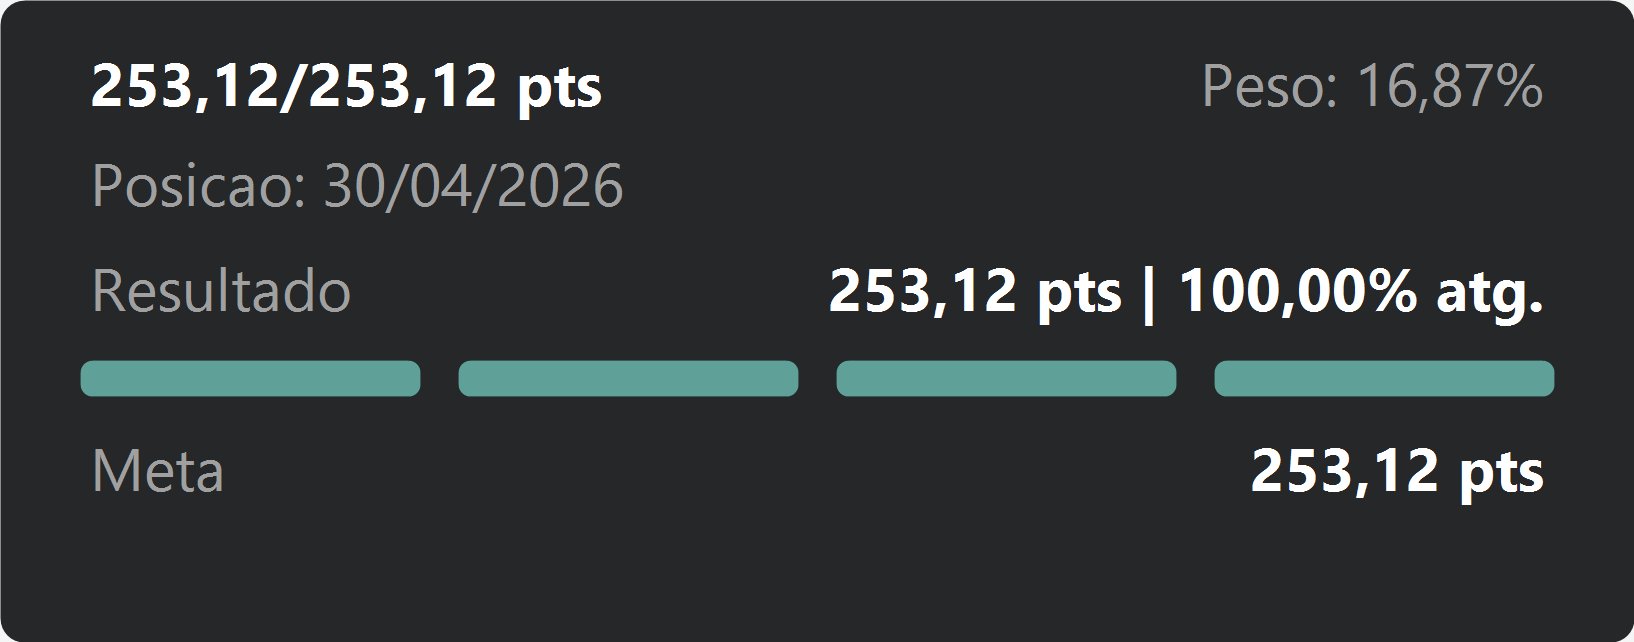
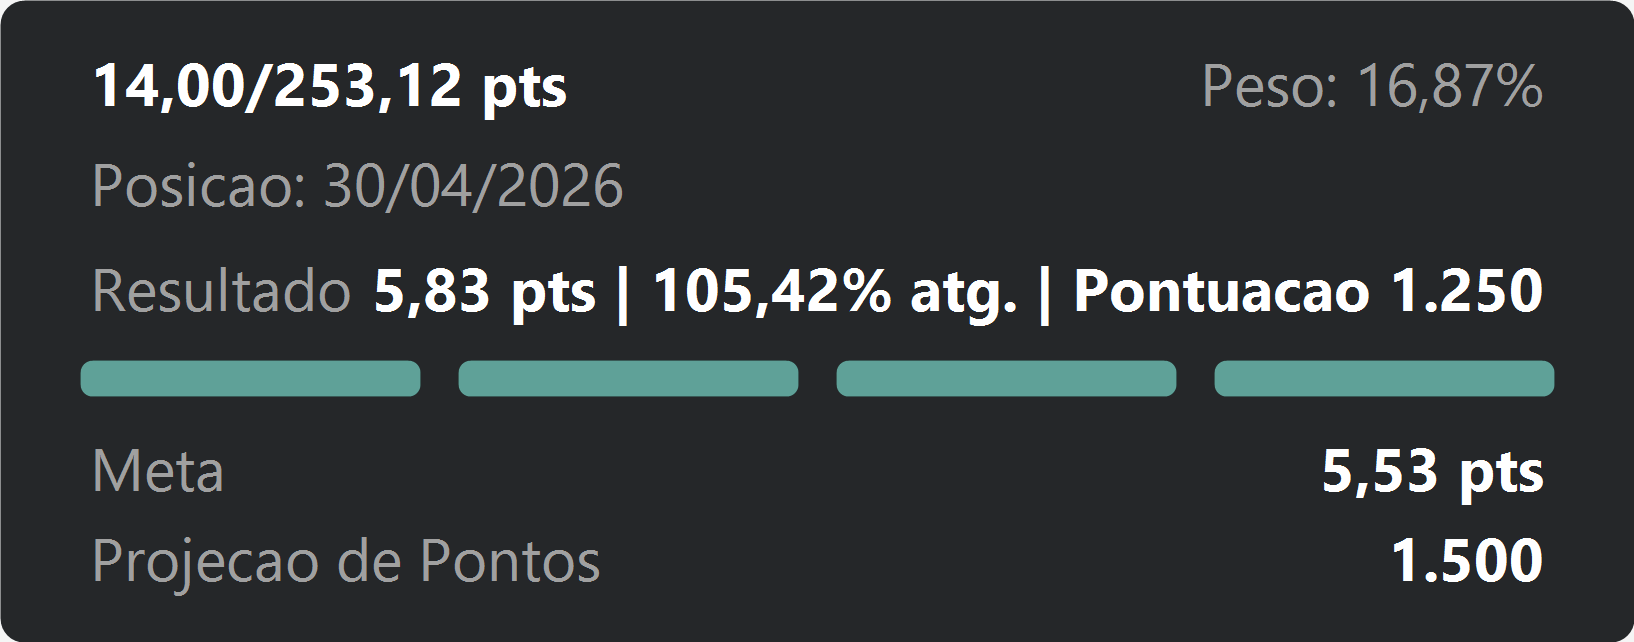
feat: campos 6 e 7 (Pontuacao Regua e Projecao) - v1.1.0
Adiciona dois novos campos ao visual personalizado:

- Campo 6 (Pontuacao Regua): aparece na linha Resultado como
  "| Pontuacao <valor>" ao lado do "atg.". Formato inteiro com
  separador de milhar (ex.: 1250 -> 1.250).
- Campo 7 (Pontuacao Regua Projecao): nova linha abaixo da Meta
  com rotulo "Projecao de Pontos" e o valor a direita.

A linha Projecao foi encaixada no respiro abaixo da Meta dentro
da mesma viewBox original (817x321), preservando a proporcao do
cartao e o tamanho de fontes/barra da v1.0.0 (evita encolhimento
por mudanca de aspect ratio do preserveAspectRatio).

Novas opcoes no painel de formatacao:
- Campo 3: "Separador antes da Pontuacao" e "Rotulo da Pontuacao"
- Campo 7: card novo (rotulo, fonte, cor do rotulo, cor do valor, sufixo)
- Numeros: casas decimais e separador de milhar da Pontuacao

Compatibilidade: visuais existentes na v1.0.0 sem os Campos 6 e 7
ficam visualmente identicos. As novas linhas so renderizam quando os
campos correspondentes estao bind.

diff --git a/src/visual.ts b/src/visual.ts
@@ -13,7 +13,7 @@ import VisualTooltipDataItem = powerbi.extensibility.VisualTooltipDataItem;
 
 const SVGNS = "http://www.w3.org/2000/svg";
 const VIEW_W = 817;
-const VIEW_H = 321;
+const VIEW_H = 321; // altura unica - a linha Projecao (Campo 7) cabe no respiro original abaixo da Meta
 const BAR_TOTAL_W = 737;
 const BAR_GAP = 19;
 
@@ -55,6 +55,17 @@ function fmtPct(v: any, dec: number, virgula: boolean, fracao: boolean): string 
         s = s.replace(".", ",");
     }
     return s + "%";
+}
+
+function fmtPontuacao(v: any, dec: number, milhar: boolean): string {
+    if (v === null || v === undefined || v === "" || isNaN(Number(v))) {
+        return "";
+    }
+    return Number(v).toLocaleString("pt-BR", {
+        minimumFractionDigits: dec,
+        maximumFractionDigits: dec,
+        useGrouping: milhar
+    });
 }
 
 function fontAttrs(font: any, forcarPeso?: string): { [k: string]: string | number } {
@@ -157,6 +168,13 @@ export class Visual implements IVisual {
         const virgula = s.numero.virgulaDecimal.value;
         const fracao = s.numero.fracaoPercentual.value;
 
+        // viewBox permanece 817x321 sempre - a Projecao (Campo 7) encaixa no espaco
+        // sob a Meta sem mudar a proporcao do cartao (evita encolhimento por aspect-ratio)
+        const table = dataView && dataView.table;
+        const columnsAll = table && table.columns ? table.columns : [];
+        const temProjecao = columnsAll.findIndex(c => c.roles && (c.roles as any).pontuacaoReguaProjecao) >= 0;
+        const temPontuacaoRegua = columnsAll.findIndex(c => c.roles && (c.roles as any).pontuacaoRegua) >= 0;
+
         // Fundo do cartao
         this.svg.appendChild(el("rect", {
             x: 0, y: 0, width: VIEW_W, height: VIEW_H,
@@ -164,7 +182,6 @@ export class Visual implements IVisual {
             fill: s.cartao.corFundo.value.value
         }));
 
-        const table = dataView && dataView.table;
         if (!table || !table.columns || !table.columns.length) {
             this.tooltipItems = [];
             this.svg.appendChild(txt({
@@ -186,6 +203,11 @@ export class Visual implements IVisual {
         const atingimento = this.getVal(columns, row, "atingimento");
         const progresso = this.getVal(columns, row, "progresso");
         const metaBarra = this.getVal(columns, row, "metaBarra");
+        const pontuacaoRegua = this.getVal(columns, row, "pontuacaoRegua");
+        const pontuacaoReguaProjecao = this.getVal(columns, row, "pontuacaoReguaProjecao");
+
+        const decPont = s.numero.casasDecimaisPontuacao.value;
+        const milharPont = s.numero.separadorMilharPontuacao.value;
 
         // Tooltips
         this.tooltipItems = columns
@@ -227,11 +249,16 @@ export class Visual implements IVisual {
             fill: s.resultadoBarra.corRotulo.value.value
         }, s.resultadoBarra.rotulo.value));
 
-        // Campo 3 - valor "X pts | Y% atg." (direita)
-        const valBarra = fmtNum(resultadoBarra, dec, virgula)
+        // Campo 3 - valor "X pts | Y% atg."  (+ Campo 6 "| Pontuacao 1.250" quando presente)
+        let valBarra = fmtNum(resultadoBarra, dec, virgula)
             + s.resultadoBarra.textoMeio.value
             + fmtPct(atingimento, dec, virgula, fracao)
             + s.resultadoBarra.textoFim.value;
+        if (temPontuacaoRegua) {
+            valBarra += s.resultadoBarra.separadorPontuacao.value
+                + s.resultadoBarra.rotuloPontuacao.value
+                + fmtPontuacao(pontuacaoRegua, decPont, milharPont);
+        }
         g.appendChild(txt({
             x: 737, y: -35, ...fontAttrs(s.resultadoBarra.font),
             fill: s.resultadoBarra.corValor.value.value, "text-anchor": "end"
@@ -281,6 +308,22 @@ export class Visual implements IVisual {
             x: 737, y: 55, ...fontAttrs(s.metaBarra.font),
             fill: s.metaBarra.corValor.value.value, "text-anchor": "end"
         }, metaTexto));
+
+        // Campo 7 - Projecao de Pontos (nova linha abaixo da Meta) - so renderiza se o campo estiver bind
+        // y=100 no grupo (= 280 absoluto): cabe na viewBox original aproveitando o respiro sob a Meta
+        if (temProjecao) {
+            // rotulo "Projecao de Pontos" (esquerda)
+            g.appendChild(txt({
+                x: 0, y: 100, ...fontAttrs(s.projecao.font, "400"),
+                fill: s.projecao.corRotulo.value.value
+            }, s.projecao.rotulo.value));
+            // valor (direita)
+            const projecaoTexto = fmtPontuacao(pontuacaoReguaProjecao, decPont, milharPont) + s.projecao.sufixo.value;
+            g.appendChild(txt({
+                x: 737, y: 100, ...fontAttrs(s.projecao.font),
+                fill: s.projecao.corValor.value.value, "text-anchor": "end"
+            }, projecaoTexto));
+        }
 
         this.svg.appendChild(g);
     }

diff --git a/src/settings.ts b/src/settings.ts
@@ -154,9 +154,21 @@ class ResultadoBarraCard extends Card {
         value: " atg.",
         placeholder: " atg."
     });
+    separadorPontuacao = new formattingSettings.TextInput({
+        name: "separadorPontuacao",
+        displayName: "Separador antes da Pontuacao (Campo 6)",
+        value: " | ",
+        placeholder: " | "
+    });
+    rotuloPontuacao = new formattingSettings.TextInput({
+        name: "rotuloPontuacao",
+        displayName: "Rotulo da Pontuacao (Campo 6)",
+        value: "Pontuacao ",
+        placeholder: "Pontuacao "
+    });
     name = "resultadoBarra";
     displayName = "Campo 3 - Resultado/Atingimento (barra)";
-    slices = [this.rotulo, this.corRotulo, this.font, this.corValor, this.textoMeio, this.textoFim];
+    slices = [this.rotulo, this.corRotulo, this.font, this.corValor, this.textoMeio, this.textoFim, this.separadorPontuacao, this.rotuloPontuacao];
 }
 
 /* ------------------ Campo 4 - Barra de progresso ------------------ */
@@ -238,6 +250,36 @@ class MetaBarraCard extends Card {
     slices = [this.rotulo, this.corRotulo, this.font, this.corValor, this.sufixo];
 }
 
+/* ------------------ Campo 7 - Projecao de Pontos (abaixo da Meta) ------------------ */
+class ProjecaoCard extends Card {
+    rotulo = new formattingSettings.TextInput({
+        name: "rotulo",
+        displayName: "Rotulo (esquerda)",
+        value: "Projecao de Pontos",
+        placeholder: "Projecao de Pontos"
+    });
+    corRotulo = new formattingSettings.ColorPicker({
+        name: "corRotulo",
+        displayName: "Cor do rotulo",
+        value: { value: "#A0A0A0" }
+    });
+    font = controleFonte(true, 32);
+    corValor = new formattingSettings.ColorPicker({
+        name: "corValor",
+        displayName: "Cor do valor",
+        value: { value: "#FFFFFF" }
+    });
+    sufixo = new formattingSettings.TextInput({
+        name: "sufixo",
+        displayName: "Sufixo",
+        value: "",
+        placeholder: ""
+    });
+    name = "projecao";
+    displayName = "Campo 7 - Projecao de Pontos (barra)";
+    slices = [this.rotulo, this.corRotulo, this.font, this.corValor, this.sufixo];
+}
+
 /* ------------------ Numeros (global) ------------------ */
 class NumeroCard extends Card {
     casasDecimais = new formattingSettings.NumUpDown({
@@ -259,9 +301,23 @@ class NumeroCard extends Card {
         displayName: "Usar virgula como separador decimal",
         value: true
     });
+    casasDecimaisPontuacao = new formattingSettings.NumUpDown({
+        name: "casasDecimaisPontuacao",
+        displayName: "Casas decimais (Pontuacao - Campos 6 e 7)",
+        value: 0,
+        options: {
+            minValue: { type: ValidatorType.Min, value: 0 },
+            maxValue: { type: ValidatorType.Max, value: 6 }
+        }
+    });
+    separadorMilharPontuacao = new formattingSettings.ToggleSwitch({
+        name: "separadorMilharPontuacao",
+        displayName: "Separador de milhar na Pontuacao (ex.: 1.250)",
+        value: true
+    });
     name = "numero";
     displayName = "Numeros (formatacao)";
-    slices = [this.casasDecimais, this.fracaoPercentual, this.virgulaDecimal];
+    slices = [this.casasDecimais, this.fracaoPercentual, this.virgulaDecimal, this.casasDecimaisPontuacao, this.separadorMilharPontuacao];
 }
 
 export class VisualFormattingSettingsModel extends Model {
@@ -272,6 +328,7 @@ export class VisualFormattingSettingsModel extends Model {
     resultadoBarra = new ResultadoBarraCard();
     barra = new BarraCard();
     metaBarra = new MetaBarraCard();
+    projecao = new ProjecaoCard();
     numero = new NumeroCard();
 
     cards = [
@@ -282,6 +339,7 @@ export class VisualFormattingSettingsModel extends Model {
         this.resultadoBarra,
         this.barra,
         this.metaBarra,
+        this.projecao,
         this.numero
     ];
 }

diff --git a/README.md b/README.md
@@ -4,7 +4,7 @@
 ![API](https://img.shields.io/badge/Visuals%20API-5.9.0-blue)
 ![TypeScript](https://img.shields.io/badge/TypeScript-5.6-3178C6?logo=typescript&logoColor=white)
 ![License](https://img.shields.io/badge/license-MIT-green)
-![Version](https://img.shields.io/badge/version-1.0.0-informational)
+![Version](https://img.shields.io/badge/version-1.1.0-informational)
 
 Cartão de **progresso por barras** para Power BI, distribuído como **visual personalizado importável** (`.pbiviz`). É a reconstrução nativa de um cartão que originalmente era gerado por **DAX + SVG** dentro de um componente *HTML Content*.
 
@@ -50,17 +50,18 @@ O objetivo deste visual é **manter 100% de fidelidade ao layout original**, mas
 ## Anatomia do visual
 
 ```
-┌─────────────────────────────────────────────────────────────┐
-│  253,12/253,12 pts                            Peso: 16,87%    │  ← Campo 1 (esq.) / Campo 2 (dir.)
-│  Posição: 30/04/2026                                          │  ← Posição
-│                                                               │
-│  Resultado                       253,12 pts | 100,00% atg.    │  ← rótulo / Campo 3
-│  ▰▰▰▰▰▰   ▰▰▰▰▰▰   ▰▰▰▰▰▰   ▰▰▰▰▰▰                            │  ← Campo 4 (barra)
-│  Meta                                          253,12 pts     │  ← rótulo / Campo 5
-└─────────────────────────────────────────────────────────────┘
+┌─────────────────────────────────────────────────────────────────────────┐
+│  14,00/253,12 pts                                       Peso: 16,87%    │  ← Campo 1 (esq.) / Campo 2 (dir.)
+│  Posição: 30/04/2026                                                    │  ← Posição
+│                                                                         │
+│  Resultado            5,83 pts | 105,42% atg. | Pontuação 1.250         │  ← Campo 3 + Campo 6
+│  ▰▰▰▰▰▰   ▰▰▰▰▰▰   ▰▰▰▰▰▰   ▰▰▰▰▰▰                                      │  ← Campo 4 (barra)
+│  Meta                                                       5,53 pts    │  ← rótulo / Campo 5
+│  Projeção de Pontos                                            1.500    │  ← Campo 7 (novo na v1.1.0)
+└─────────────────────────────────────────────────────────────────────────┘
 ```
 
-O visual é desenhado em um `viewBox` fixo de `817 × 321`, com `preserveAspectRatio`, então escala proporcionalmente ao tamanho do contêiner mantendo o layout.
+O visual é desenhado em um `viewBox` fixo de `817 × 321`, com `preserveAspectRatio`, então escala proporcionalmente ao tamanho do contêiner mantendo o layout — inclusive com os campos da v1.1.0.
 
 ---
 
@@ -78,9 +79,13 @@ Cada valor distinto do cartão é um campo independente, aceitando uma medida (o
 | Campo 3 — Atingimento % | `atingimento` | Acima da barra (`... Y% atg.`) |
 | Campo 4 — Progresso da barra % | `progresso` | Preenchimento dos segmentos |
 | Campo 5 — Meta (barra) | `metaBarra` | Abaixo da barra, à direita |
+| **Campo 6 — Pontuação Régua** *(v1.1.0)* | `pontuacaoRegua` | Linha Resultado, ao final (`... \| Pontuação 1.250`) |
+| **Campo 7 — Pontuação Régua Projeção** *(v1.1.0)* | `pontuacaoReguaProjecao` | Linha sob a Meta (`Projeção de Pontos    1.500`) |
 | Dicas de ferramenta | `tooltips` | Tooltip ao passar o mouse |
 
 > **Percentuais**: por padrão o visual interpreta `peso`, `atingimento` e `progresso` como **fração** (ex.: `0,1687` → `16,87%`), igual ao DAX original. Caso suas medidas já venham multiplicadas por 100, desligue *"Percentuais como fração (0 a 1)"* no cartão **Números**.
+>
+> **Pontuação**: os Campos 6 e 7 são formatados como inteiro com **separador de milhar** (`.`) por padrão — ex.: `1250` → `1.250`. Casas decimais e o separador de milhar são configuráveis no cartão **Números**.
 
 ---
 
@@ -94,10 +99,11 @@ Todas no painel nativo de Formatação:
 | **Campo 1 — Resultado/Meta** | Fonte, tamanho, negrito, cor, prefixo (rótulo), separador, sufixo |
 | **Campo 2 — Peso** | Rótulo, fonte, tamanho, negrito, cor |
 | **Posição (data)** | Rótulo, fonte, tamanho, negrito, cor |
-| **Campo 3 — Resultado/Atingimento** | Rótulo + cor do rótulo, fonte/tamanho/negrito, cor do valor, textos intermediário e final |
+| **Campo 3 — Resultado/Atingimento** | Rótulo + cor do rótulo, fonte/tamanho/negrito, cor do valor, textos intermediário e final, **separador e rótulo da Pontuação** *(v1.1.0)* |
 | **Campo 4 — Barra de progresso** | Cor (atingido), cor (abaixo da meta), cor de fundo da barra, limite (%), nº de segmentos, altura |
 | **Campo 5 — Meta** | Rótulo + cor do rótulo, fonte/tamanho/negrito, cor do valor, sufixo |
-| **Números (formatação)** | Casas decimais, vírgula como separador decimal, percentuais como fração |
+| **Campo 7 — Projeção de Pontos** *(v1.1.0)* | Rótulo + cor do rótulo, fonte/tamanho/negrito, cor do valor, sufixo |
+| **Números (formatação)** | Casas decimais, vírgula como separador decimal, percentuais como fração, **casas decimais da Pontuação, separador de milhar da Pontuação** *(v1.1.0)* |
 
 ---
 
@@ -127,9 +133,11 @@ A **cor** é dinâmica: se `p >= limite/100`, usa a *cor de atingido* (verde `#5
 | `_Pontos` (`Realizado`) | Resultado da barra | Campo 3 — Resultado (barra) |
 | `_Percentual` (`_Pontos / _MetaTexto`) | Atingimento | Campo 3 — Atingimento % **e** Campo 4 — Progresso |
 | `_MetaTexto` (`Meta_Projecao`) | Meta projetada | Campo 5 — Meta (barra) |
+| Medida nova (Pontuação Régua) *(v1.1.0)* | Pontuação acumulada | Campo 6 — Pontuação Régua |
+| Medida nova (Pontuação Régua Projeção) *(v1.1.0)* | Projeção de pontos | Campo 7 — Pontuação Régua Projeção |
 | `_CorBarra` (verde/vermelho) | Cor condicional | Cartão **Barra** (cores + limite) |
 
-> Agora cada uma dessas variáveis vira uma **medida simples** arrastada para o campo correspondente — sem precisar montar a string SVG no DAX.
+> Cada uma dessas variáveis vira uma **medida simples** arrastada para o campo correspondente — sem precisar montar a string SVG no DAX.
 
 ---
 
@@ -196,7 +204,7 @@ npm start   # npx pbiviz start
 ## Instalação no Power BI Desktop
 
 1. Painel **Visualizações → ⋯ (Obter mais visuais) → Importar um visual de um arquivo**.
-2. Selecione o arquivo `.pbiviz` gerado em `dist/`.
+2. Selecione o arquivo `.pbiviz` (baixe a versão mais recente na [aba Releases](../../releases) deste repositório).
 3. Adicione o visual ao relatório e arraste suas medidas para os campos correspondentes.
 4. Ajuste a aparência no painel de **Formatação**.
 

diff --git a/CHANGELOG.md b/CHANGELOG.md
@@ -5,6 +5,31 @@ Todas as mudanças relevantes deste projeto são documentadas neste arquivo.
 O formato segue o [Keep a Changelog](https://keepachangelog.com/pt-BR/1.1.0/),
 e o projeto adota o [Versionamento Semântico](https://semver.org/lang/pt-BR/).
 
+## [1.1.0] - 2026-05-26
+
+### Adicionado
+- **Campo 6 - Pontuação Régua** (`pontuacaoRegua`): novo campo que aparece na linha
+  "Resultado" como `| Pontuação <valor>` ao lado do `atg.`.
+- **Campo 7 - Pontuação Régua Projeção** (`pontuacaoReguaProjecao`): nova linha
+  abaixo da Meta com rótulo "Projeção de Pontos" e o valor à direita.
+- Cartão de formatação **Campo 7 - Projeção de Pontos (barra)** com rótulo,
+  fonte, cor do rótulo, cor do valor e sufixo (todos editáveis).
+- Em **Campo 3 - Resultado/Atingimento**: novas opções *"Separador antes da
+  Pontuação"* (padrão ` | `) e *"Rótulo da Pontuação"* (padrão `Pontuação `).
+- Em **Números (formatação)**: novas opções *"Casas decimais (Pontuação - Campos
+  6 e 7)"* (padrão `0`) e *"Separador de milhar na Pontuação"* (padrão ligado,
+  gera `1.250` para `1250`).
+
+### Notas técnicas
+- A `viewBox` permanece **817×321** (mesma da v1.0.0). A linha "Projeção de
+  Pontos" foi encaixada no espaço de respiro que existia abaixo da Meta, **sem
+  alterar a proporção do cartão** — fontes, barra e demais elementos mantêm o
+  mesmo tamanho da v1.0.0 (evita o efeito de "encolhimento" causado por
+  mudança de aspect ratio no `preserveAspectRatio`).
+- **Compatível com a v1.0.0**: visuais que atualizarem sem adicionar os Campos
+  6 e 7 ficam visualmente idênticos. As novas linhas só renderizam quando os
+  campos correspondentes estão *bind*.
+
 ## [1.0.0] - 2026-05-23
 
 ### Adicionado
